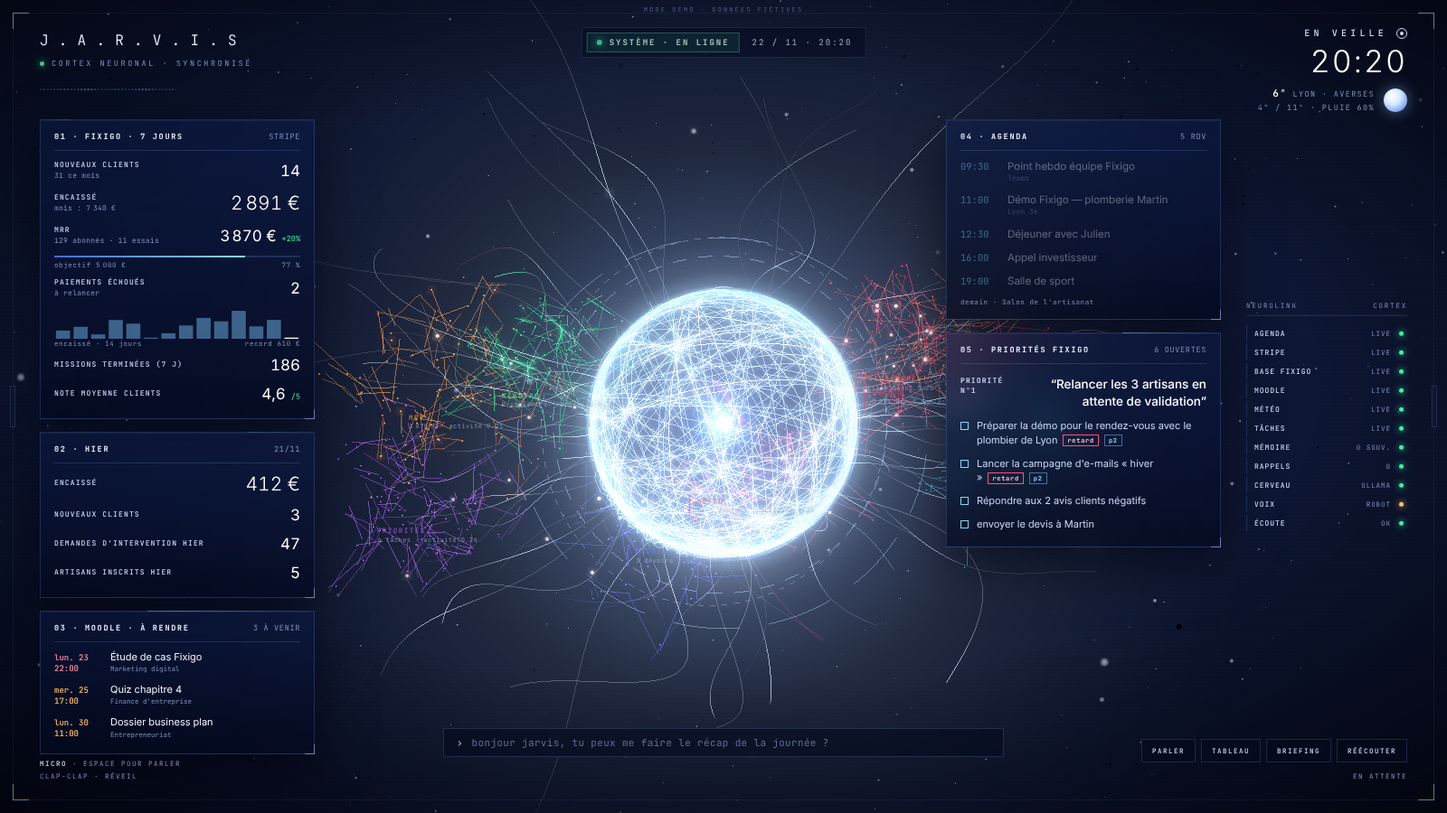
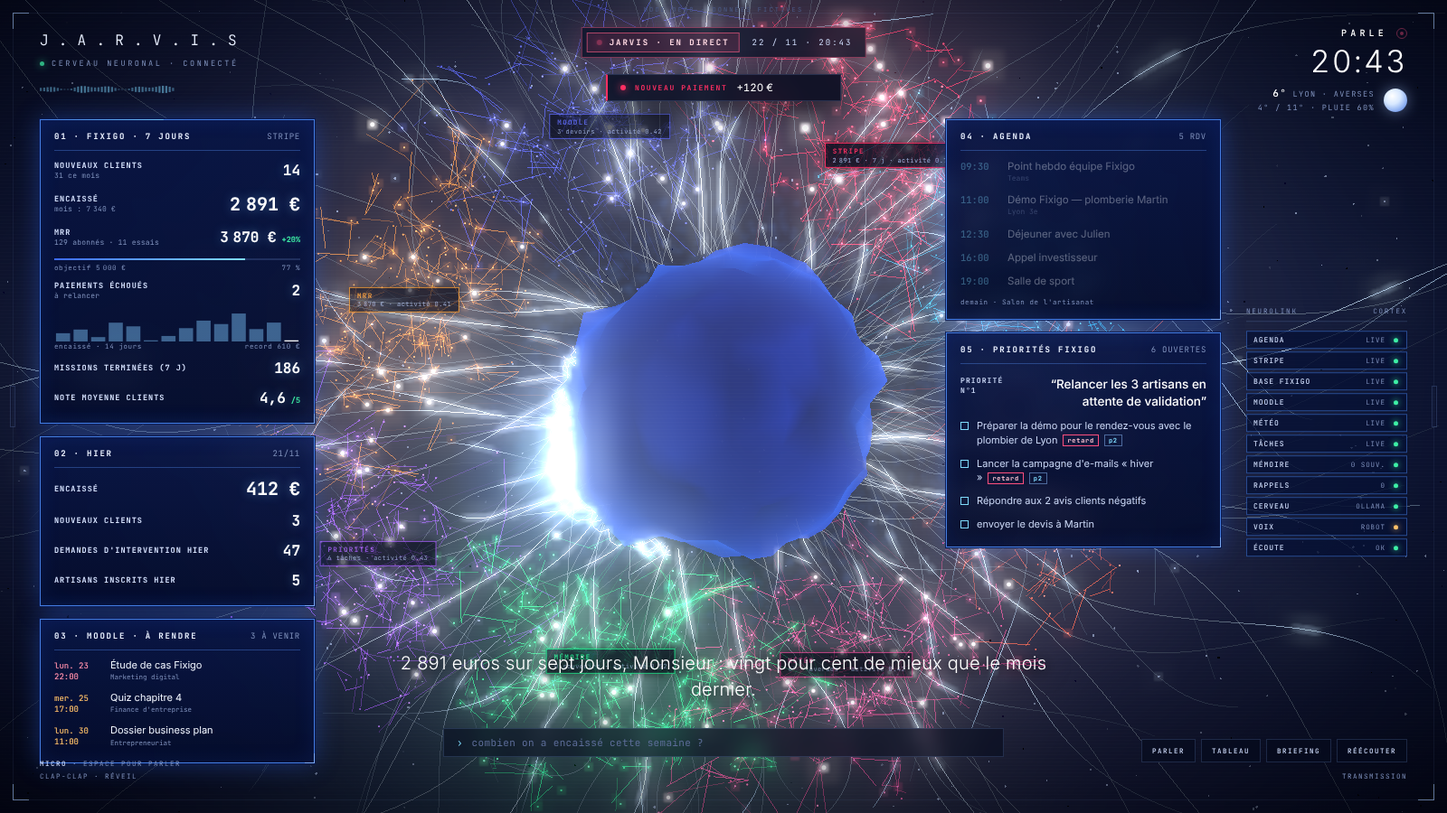
Remaster façon vidéo : noyau organique, éclairs, anneau de constellations, filaments ; voix et humour Jarvis ; contrôle du micro
Claude-Session: https://claude.ai/code/session_01DKoxfKHzRcH3b2eyDqtUH6

diff --git a/jarvis_thibault/static/index.html b/jarvis_thibault/static/index.html
@@ -17,7 +17,7 @@ html,body{height:100%;background:var(--fond);color:var(--blanc);font-family:var(
 #scene{position:fixed;left:0;top:0;z-index:0;display:block}
 .voile{position:fixed;inset:0;z-index:1;pointer-events:none;
   background:radial-gradient(ellipse 75% 70% at 50% 47%,transparent 55%,rgba(0,0,6,.78) 100%),
-  repeating-linear-gradient(0deg,rgba(255,255,255,.007) 0 1px,transparent 1px 4px)}
+  repeating-linear-gradient(0deg,rgba(255,255,255,.014) 0 1px,transparent 1px 4px)}
 .cadre{position:fixed;inset:14px;z-index:2;pointer-events:none;border:1px solid rgba(140,180,255,.07)}
 .cadre i{position:absolute;width:18px;height:18px;border-color:var(--trait-fort);border-style:solid}
 .cadre i:nth-child(1){top:-1px;left:-1px;border-width:1px 0 0 1px}.cadre i:nth-child(2){top:-1px;right:-1px;border-width:1px 1px 0 0}
@@ -49,9 +49,9 @@ html,body{height:100%;background:var(--fond);color:var(--blanc);font-family:var(
 .meteo b{color:#fff;font-weight:500;font-size:11px}
 
 /* ── colonne Neurolink ── */
-.modules{position:fixed;z-index:5;right:44px;top:50%;transform:translateY(-46%);width:178px;display:flex;flex-direction:column;gap:3px}
+.modules{position:fixed;z-index:5;right:44px;top:50%;transform:translateY(-40%);width:178px;display:flex;flex-direction:column;gap:3px}
 .modules .titre{display:flex;justify-content:space-between;font-size:7.5px;letter-spacing:.24em;color:var(--doux);text-transform:uppercase;margin-bottom:7px;padding-bottom:6px;border-bottom:1px solid var(--trait)}
-.mod{display:grid;grid-template-columns:1fr auto 7px;gap:9px;align-items:center;padding:4px 2px 4px 8px;font-size:8px;letter-spacing:.12em;text-transform:uppercase;border-left:1px solid var(--trait)}
+.mod{display:grid;grid-template-columns:1fr auto 7px;gap:9px;align-items:center;padding:4px 7px;font-size:8px;letter-spacing:.12em;text-transform:uppercase;border:1px solid rgba(80,145,255,.45);background:rgba(6,16,52,.75)}
 .mod b{font-weight:500;color:var(--label)}.mod span{color:var(--doux);font-size:7.5px}
 .mod i{width:5px;height:5px;border-radius:50%;background:var(--vert);box-shadow:0 0 7px var(--vert)}
 .mod.ko i{background:transparent;border:1px solid var(--tres-doux);box-shadow:none}.mod.ko span,.mod.ko b{color:var(--tres-doux)}
@@ -60,8 +60,8 @@ html,body{height:100%;background:var(--fond);color:var(--blanc);font-family:var(
 /* ── fenêtres holographiques ── */
 .colonne{position:fixed;z-index:5;top:132px;display:flex;flex-direction:column;gap:14px;width:min(304px,22vw);max-height:calc(100vh - 250px)}
 .colonne.g{left:44px}.colonne.d{right:250px}
-.pan{position:relative;background:var(--verre);border:1px solid var(--trait);padding:12px 15px 11px;backdrop-filter:blur(16px) saturate(130%);-webkit-backdrop-filter:blur(16px) saturate(130%);
-  box-shadow:0 18px 50px rgba(0,0,12,.55),inset 0 1px 0 rgba(180,210,255,.08);display:none;opacity:0;transform:translateY(10px);transition:opacity .35s,transform .5s cubic-bezier(.2,.9,.2,1)}
+.pan{position:relative;background:linear-gradient(180deg,rgba(9,22,70,.93),rgba(5,13,44,.93));border:1.5px solid rgba(80,145,255,.85);padding:12px 15px 11px;
+  backdrop-filter:blur(8px);-webkit-backdrop-filter:blur(8px);box-shadow:0 0 0 1px rgba(10,25,80,.9),0 0 26px rgba(50,110,255,.35),inset 0 0 22px rgba(40,90,255,.12);display:none;opacity:0;transform:translateY(10px);transition:opacity .35s,transform .5s cubic-bezier(.2,.9,.2,1)}
 .pan::before{content:"";position:absolute;left:-1px;right:-1px;top:-1px;height:1px;background:linear-gradient(90deg,transparent,var(--cyan),transparent);opacity:.75;animation:balaie 4s linear infinite}
 .pan::after{content:"";position:absolute;right:-1px;bottom:-1px;width:10px;height:10px;border-right:1px solid var(--trait-fort);border-bottom:1px solid var(--trait-fort)}
 @keyframes balaie{0%{clip-path:inset(0 100% 0 0)}50%{clip-path:inset(0 0 0 0)}100%{clip-path:inset(0 0 0 100%)}}
@@ -69,14 +69,14 @@ html,body{height:100%;background:var(--fond);color:var(--blanc);font-family:var(
 .pan.visible{opacity:1;transform:none;animation:holo .6s steps(1,end)}
 @keyframes holo{0%{clip-path:inset(0 0 100% 0);opacity:.3}15%{clip-path:inset(0 0 68% 0);opacity:1}25%{clip-path:inset(0 0 70% 0);opacity:.4}
   42%{clip-path:inset(0 0 30% 0);opacity:1}55%{opacity:.6}75%{clip-path:inset(0 0 0 0);opacity:1}88%{opacity:.75}100%{clip-path:inset(0 0 0 0);opacity:1}}
-.pan h2{display:flex;justify-content:space-between;align-items:baseline;gap:10px;font-size:8.5px;font-weight:700;letter-spacing:.2em;text-transform:uppercase;color:#eaf1ff;
-  padding-bottom:9px;margin-bottom:4px;border-bottom:1px solid var(--trait)}
+.pan h2{display:flex;justify-content:space-between;align-items:baseline;gap:10px;font-size:9px;font-weight:700;letter-spacing:.2em;text-transform:uppercase;color:#eaf1ff;
+  padding-bottom:9px;margin-bottom:4px;border-bottom:1px solid rgba(90,150,255,.35)}
 .pan h2 span:last-child{font-weight:400;color:var(--doux);letter-spacing:.08em}
 .kpi{display:flex;justify-content:space-between;align-items:center;gap:12px;padding:6px 0}
-.kpi .n{font-size:8px;font-weight:500;letter-spacing:.14em;text-transform:uppercase;color:var(--label);line-height:1.45}
+.kpi .n{font-size:8.5px;font-weight:700;letter-spacing:.12em;text-transform:uppercase;color:#d7e3ff;line-height:1.45}
 .kpi .n small{display:block;font-weight:400;font-size:8px;letter-spacing:.03em;color:var(--doux);text-transform:none}
-.kpi .v{font-family:var(--sans);font-size:17px;font-weight:400;color:#fff;white-space:nowrap}
-.kpi .v.fort{font-size:21px;font-weight:300}
+.kpi .v{font-family:var(--mono);font-size:16px;font-weight:700;color:#fff;white-space:nowrap;text-shadow:0 0 12px rgba(120,190,255,.45)}
+.kpi .v.fort{font-size:20px;font-weight:700}
 .kpi .v small{font-family:var(--mono);font-size:8.5px;color:var(--vert);margin-left:6px}
 .barre{height:2px;background:var(--trait);margin:5px 0 3px;position:relative;overflow:hidden}
 .barre i{position:absolute;inset:0 auto 0 0;background:linear-gradient(90deg,#3d6bff,var(--cyan));box-shadow:0 0 8px #3d8bff}
@@ -103,8 +103,8 @@ html,body{height:100%;background:var(--fond);color:var(--blanc);font-family:var(
 
 /* ── étiquettes du cerveau ── */
 .noeuds{position:fixed;inset:0;z-index:3;pointer-events:none}
-.noeud{position:absolute;transform:translate(-50%,0);padding:2px 0 2px 8px;border-left:1px solid;font:500 7.5px/1.4 var(--mono);letter-spacing:.2em;text-transform:uppercase;white-space:nowrap;
-  text-shadow:0 0 10px rgba(0,0,0,.9);transition:opacity .4s;border-color:currentColor!important;background:none!important;box-shadow:none!important}
+.noeud{position:absolute;transform:translate(-50%,-50%);padding:3px 8px;border:1px solid currentColor;background:rgba(2,5,22,.78);font:700 7.5px/1.4 var(--mono);letter-spacing:.18em;
+  text-transform:uppercase;white-space:nowrap;transition:opacity .4s;box-shadow:0 0 12px rgba(0,0,0,.6)}
 .noeud small{display:block;font-weight:400;font-size:7px;letter-spacing:.06em;color:#9eb0dc;text-transform:none}
 
 /* ── bas ── */
@@ -154,7 +154,7 @@ button.b:hover,button.b.on{border-color:var(--trait-fort);color:#fff;background:
 <div class="noeuds" id="noeuds"></div>
 <div id="boot"><pre id="bootTxt"></pre></div>
 
-<div class="marque"><div class="nom">J.A.R.V.I.S</div><div class="ss"><i></i>Cortex neuronal · synchronisé</div><canvas id="onde" aria-hidden="true"></canvas></div>
+<div class="marque"><div class="nom">J.A.R.V.I.S</div><div class="ss"><i></i>Cerveau neuronal · connecté</div><canvas id="onde" aria-hidden="true"></canvas></div>
 <div class="bandeau" id="bandeau"><span class="puce"><i></i><span id="puceTxt">Système · en ligne</span></span><span id="bandeauDate"></span></div>
 <div class="droite-tete">
   <div class="etat" id="etat"><span id="etatTxt">En veille</span><span class="rond"></span></div>
@@ -477,160 +477,141 @@ import {RenderPass} from "/static/vendor/postprocessing/RenderPass.js";
 import {UnrealBloomPass} from "/static/vendor/postprocessing/UnrealBloomPass.js";
 import {OutputPass} from "/static/vendor/postprocessing/OutputPass.js";
 
-/* ══ Cerveau neuronal 3D (Three.js + bloom) ══ */
+/* ══ Cerveau neuronal — remaster façon vidéo (Three.js + bloom) ══ */
 const cv=document.getElementById("scene");
 let renderer=null;
 try{renderer=new THREE.WebGLRenderer({canvas:cv,antialias:true,powerPreference:"high-performance"})}catch(e){console.warn("WebGL indisponible",e)}
 if(renderer){
-  const PAL={video:["#3fd8ff","#ff3d6e","#6f7dff","#ffa63d","#b66bff","#2dffa4","#ff5fae","#ff7d4a"],
-             bleu:["#3fd8ff","#4f7bff","#8fc8ff","#2f9bff","#6a8cff","#5fe0ff","#3d5cff","#a9d8ff"]};
-  const REG=["agenda","stripe","moodle","mrr","priorites","memoire","meteo","raison"],IDX=Object.fromEntries(REG.map((k,i)=>[k,i]));
-  IDX.langage=IDX.raison;
-  let graine=7;const rnd=()=>{graine|=0;graine=graine+0x6D2B79F5|0;let t=Math.imul(graine^graine>>>15,1|graine);t=t+Math.imul(t^t>>>7,61|t)^t;return((t^t>>>14)>>>0)/4294967296};
+  const PAL={video:["#28d2ff","#ff2f62","#5f6bff","#ffa02e","#a95cff","#22ff9a","#ff4fa3","#ff6a3a"],
+             bleu:["#28d2ff","#3f6bff","#8fc8ff","#2f9bff","#6a8cff","#5fe0ff","#3d5cff","#a9d8ff"]};
+  const REG=["agenda","stripe","moodle","mrr","priorites","memoire","meteo","raison"],IDX=Object.fromEntries(REG.map((k,i)=>[k,i]));IDX.langage=IDX.raison;
+  let graine=11;const rnd=()=>{graine|=0;graine=graine+0x6D2B79F5|0;let t=Math.imul(graine^graine>>>15,1|graine);t=t+Math.imul(t^t>>>7,61|t)^t;return((t^t>>>14)>>>0)/4294967296};
   const r2=(a,b)=>a+rnd()*(b-a),gauss=()=>{let u=0,v=0;while(!u)u=rnd();while(!v)v=rnd();return Math.sqrt(-2*Math.log(u))*Math.cos(6.2832*v)};
-  const mob=innerWidth<760;
-
-  renderer.setPixelRatio(Math.min(devicePixelRatio||1,1.75));renderer.setClearColor(0x010208,1);
-  const scene=new THREE.Scene(),camera=new THREE.PerspectiveCamera(36,1,.1,100);
-  const monde=new THREE.Group();scene.add(monde);
-  const R=1.18;
-  const U={uTemps:{value:0},uNiveau:{value:0},uActivite:{value:new Array(8).fill(.4)},uCouleurs:{value:REG.map(()=>new THREE.Color())},uFlash:{value:0}};
-  function couleurs(){const p=PAL[COULEURS]||PAL.video;p.forEach((h,i)=>U.uCouleurs.value[i].set(h))}couleurs();
+  const mob=innerWidth<760,R=1.2;
+  renderer.setPixelRatio(Math.min(devicePixelRatio||1,1.75));renderer.setClearColor(0x01020a,1);
+  const scene=new THREE.Scene(),camera=new THREE.PerspectiveCamera(34,1,.1,100),monde=new THREE.Group();scene.add(monde);
+  const U={uTemps:{value:0},uNiveau:{value:0},uFlash:{value:0},uActivite:{value:new Array(8).fill(.5)},uCouleurs:{value:REG.map(()=>new THREE.Color())}};
+  const couleurs=()=>(PAL[COULEURS]||PAL.video).forEach((h,i)=>U.uCouleurs.value[i].set(h));couleurs();
   const additif={transparent:true,depthWrite:false,blending:THREE.AdditiveBlending};
+  const NOISE=`vec3 m289(vec3 x){return x-floor(x*(1./289.))*289.;}vec4 m289(vec4 x){return x-floor(x*(1./289.))*289.;}vec4 perm(vec4 x){return m289(((x*34.)+1.)*x);}
+  float snoise(vec3 v){const vec2 C=vec2(1./6.,1./3.);const vec4 D=vec4(0.,.5,1.,2.);vec3 i=floor(v+dot(v,C.yyy));vec3 x0=v-i+dot(i,C.xxx);vec3 g=step(x0.yzx,x0.xyz);vec3 l=1.-g;
+  vec3 i1=min(g.xyz,l.zxy);vec3 i2=max(g.xyz,l.zxy);vec3 x1=x0-i1+C.xxx;vec3 x2=x0-i2+C.yyy;vec3 x3=x0-D.yyy;i=m289(i);
+  vec4 p=perm(perm(perm(i.z+vec4(0.,i1.z,i2.z,1.))+i.y+vec4(0.,i1.y,i2.y,1.))+i.x+vec4(0.,i1.x,i2.x,1.));float n_=.142857142857;vec3 ns=n_*D.wyz-D.xzx;
+  vec4 j=p-49.*floor(p*ns.z*ns.z);vec4 x_=floor(j*ns.z);vec4 y_=floor(j-7.*x_);vec4 x=x_*ns.x+ns.yyyy;vec4 y=y_*ns.x+ns.yyyy;vec4 h=1.-abs(x)-abs(y);
+  vec4 b0=vec4(x.xy,y.xy);vec4 b1=vec4(x.zw,y.zw);vec4 s0=floor(b0)*2.+1.;vec4 s1=floor(b1)*2.+1.;vec4 sh=-step(h,vec4(0.));
+  vec4 a0=b0.xzyw+s0.xzyw*sh.xxyy;vec4 a1=b1.xzyw+s1.xzyw*sh.zzww;vec3 p0=vec3(a0.xy,h.x);vec3 p1=vec3(a0.zw,h.y);vec3 p2=vec3(a1.xy,h.z);vec3 p3=vec3(a1.zw,h.w);
+  vec4 norm=1.79284291400159-.85373472095314*vec4(dot(p0,p0),dot(p1,p1),dot(p2,p2),dot(p3,p3));p0*=norm.x;p1*=norm.y;p2*=norm.z;p3*=norm.w;
+  vec4 m=max(.6-vec4(dot(x0,x0),dot(x1,x1),dot(x2,x2),dot(x3,x3)),0.);m=m*m;return 42.*dot(m*m,vec4(dot(p0,x0),dot(p1,x1),dot(p2,x2),dot(p3,x3)));}`;
 
-  /* ── fond d'étoiles ── */
-  {const n=mob?600:1400,pos=new Float32Array(n*3),gr=new Float32Array(n);
-    for(let i=0;i<n;i++){const d=r2(5,14),u=r2(-1,1),t=r2(0,6.2832),q=Math.sqrt(1-u*u);pos.set([Math.cos(t)*q*d,u*d*.7,Math.sin(t)*q*d],i*3);gr[i]=rnd()}
-    const g=new THREE.BufferGeometry();g.setAttribute("position",new THREE.BufferAttribute(pos,3));g.setAttribute("aGraine",new THREE.BufferAttribute(gr,1));
-    scene.add(new THREE.Points(g,new THREE.ShaderMaterial({...additif,uniforms:U,
-      vertexShader:`attribute float aGraine;uniform float uTemps;varying float vA;void main(){vec4 mv=modelViewMatrix*vec4(position,1.);gl_Position=projectionMatrix*mv;
-        vA=.25+.35*sin(uTemps*.8+aGraine*40.);gl_PointSize=(1.+aGraine*1.6)*(14./-mv.z);}`,
-      fragmentShader:`varying float vA;void main(){float d=length(gl_PointCoord-.5);if(d>.5)discard;gl_FragColor=vec4(vec3(.6,.72,1.)*vA*(1.-d*2.),1.);}`})))}
+  /* étoiles */
+  {const n=mob?500:1200,pos=new Float32Array(n*3),gr=new Float32Array(n);
+    for(let i=0;i<n;i++){pos.set([r2(-14,14),r2(-8,8),r2(-12,-3)],i*3);gr[i]=rnd()}
+    const g=new THREE.BufferGeometry();g.setAttribute("position",new THREE.BufferAttribute(pos,3));g.setAttribute("aG",new THREE.BufferAttribute(gr,1));
+    scene.add(new THREE.Points(g,new THREE.ShaderMaterial({...additif,uniforms:U,vertexShader:`attribute float aG;uniform float uTemps;varying float vA;
+      void main(){vec4 mv=modelViewMatrix*vec4(position,1.);gl_Position=projectionMatrix*mv;vA=.2+.3*sin(uTemps*.7+aG*40.);gl_PointSize=1.+aG*1.8;}`,
+      fragmentShader:`varying float vA;void main(){float d=length(gl_PointCoord-.5);if(d>.5)discard;gl_FragColor=vec4(vec3(.55,.68,1.)*vA,1.);}`})))}
 
-  /* ── noyau : sphère de fils ── */
-  const noyau=new THREE.Group();monde.add(noyau);
-  {const fond=new THREE.Mesh(new THREE.SphereGeometry(R*.985,64,48),new THREE.MeshBasicMaterial({color:0x040c33,transparent:true,opacity:.82,depthWrite:false}));
-    fond.renderOrder=-1;noyau.add(fond);
-    const nf=mob?120:220,seg=90,pos=[],att=[];
-    for(let f=0;f<nf;f++){const u=r2(-1,1),t=r2(0,6.2832),q=Math.sqrt(1-u*u),n=new THREE.Vector3(Math.cos(t)*q,u,Math.sin(t)*q);
-      const a=new THREE.Vector3(.3,1,.2).cross(n).normalize(),b=n.clone().cross(a),ext=r2(.45,1)*6.2832,d0=r2(0,6.2832),rr=r2(.97,1.02),gr=rnd();
-      for(let i=0;i<seg;i++)for(const k of[i,i+1]){const th=d0+ext*k/seg,p=a.clone().multiplyScalar(Math.cos(th)).add(b.clone().multiplyScalar(Math.sin(th))).multiplyScalar(R*rr);
-        pos.push(p.x,p.y,p.z);att.push(gr,k/seg)}}
-    const g=new THREE.BufferGeometry();g.setAttribute("position",new THREE.Float32BufferAttribute(pos,3));
-    const ga=new Float32Array(att.length/2*2);for(let i=0;i<att.length;i++)ga[i]=att[i];g.setAttribute("aInfo",new THREE.BufferAttribute(ga,2));
-    noyau.add(new THREE.LineSegments(g,new THREE.ShaderMaterial({...additif,uniforms:U,
-      vertexShader:`attribute vec2 aInfo;uniform float uTemps,uNiveau;varying float vFace,vPulse;
-        void main(){vec3 p=position;float w=1.+.018*sin(aInfo.x*30.+uTemps*1.4+dot(p,vec3(3.1,2.3,1.7)))+uNiveau*.07*sin(uTemps*11.+aInfo.x*60.+aInfo.y*20.);p*=w;
-          vec3 n=normalize(normalMatrix*normalize(position));vFace=smoothstep(-.35,.7,n.z);
-          float c=fract(uTemps*(.08+aInfo.x*.12)+aInfo.x);vPulse=exp(-pow((aInfo.y-c)*14.,2.));
-          gl_Position=projectionMatrix*modelViewMatrix*vec4(p,1.);}`,
-      fragmentShader:`uniform float uNiveau;varying float vFace,vPulse;void main(){vec3 bleu=vec3(.18,.38,1.),clair=vec3(.62,.86,1.);
-        vec3 c=mix(bleu*.25,clair,vFace)*(.08+.34*vFace)+vec3(.9,.97,1.)*vPulse*(.45+uNiveau*.5)*vFace;gl_FragColor=vec4(c*(1.+uNiveau*.25),1.);}`})));
-    // liseré net (fresnel)
-    noyau.add(new THREE.Mesh(new THREE.SphereGeometry(R*1.012,64,48),new THREE.ShaderMaterial({...additif,uniforms:U,
-      vertexShader:`varying vec3 vN,vV;void main(){vN=normalize(normalMatrix*normal);vec4 mv=modelViewMatrix*vec4(position,1.);vV=normalize(-mv.xyz);gl_Position=projectionMatrix*mv;}`,
-      fragmentShader:`uniform float uNiveau;varying vec3 vN,vV;void main(){float f=pow(1.-abs(dot(vN,vV)),3.2);gl_FragColor=vec4(vec3(.35,.7,1.)*f*(.75+uNiveau*.5),1.);}`})));}
-  // cœur lumineux (sprites)
-  function texRadiale(stops){const c=document.createElement("canvas");c.width=c.height=256;const g=c.getContext("2d"),gr=g.createRadialGradient(128,128,0,128,128,128);
-    stops.forEach(([o,col])=>gr.addColorStop(o,col));g.fillStyle=gr;g.fillRect(0,0,256,256);const t=new THREE.CanvasTexture(c);t.colorSpace=THREE.SRGBColorSpace;return t}
-  const coeur=new THREE.Sprite(new THREE.SpriteMaterial({map:texRadiale([[0,"rgba(255,255,255,1)"],[.12,"rgba(215,245,255,.95)"],[.35,"rgba(90,190,255,.45)"],[1,"rgba(30,90,255,0)"]]),...additif}));
-  const halo=new THREE.Sprite(new THREE.SpriteMaterial({map:texRadiale([[0,"rgba(60,120,255,.32)"],[.5,"rgba(40,90,255,.08)"],[1,"rgba(20,50,200,0)"]]),...additif}));
-  halo.scale.setScalar(R*4.2);monde.add(halo);monde.add(coeur);
+  /* noyau : masse bleue organique, bords mouvants (comme la vidéo) */
+  const noyau=new THREE.Mesh(new THREE.IcosahedronGeometry(R,6),new THREE.ShaderMaterial({uniforms:U,transparent:true,
+    vertexShader:NOISE+`uniform float uTemps,uNiveau;varying vec3 vN,vV;varying float vB;
+      void main(){vec3 d=normalize(position);float n=snoise(d*1.6+vec3(0.,uTemps*.12,uTemps*.08))*.16+snoise(d*4.2-uTemps*.2)*.06+snoise(d*9.-uTemps*.4)*.025;
+        n+=uNiveau*.06*snoise(d*6.+uTemps*3.);vB=n;vec3 p=position*(1.+n);vec4 mv=modelViewMatrix*vec4(p,1.);vN=normalize(normalMatrix*d);vV=normalize(-mv.xyz);gl_Position=projectionMatrix*mv;}`,
+    fragmentShader:`uniform float uNiveau;varying vec3 vN,vV;varying float vB;
+      void main(){float f=pow(1.-abs(dot(vN,vV)),2.4);vec3 c=mix(vec3(.002,.008,.11),vec3(.008,.035,.42),clamp(.5+vB*2.6,0.,1.));c+=vec3(.03,.16,.9)*f*(.45+uNiveau*.4);
+        gl_FragColor=vec4(c,.97);}`}));
+  monde.add(noyau);
+  /* brume bleue autour du noyau (particules) */
+  {const n=mob?1500:3500,pos=new Float32Array(n*3),gr=new Float32Array(n);
+    for(let i=0;i<n;i++){const u=r2(-1,1),t=r2(0,6.2832),q=Math.sqrt(1-u*u),d=R*r2(.95,1.45);pos.set([Math.cos(t)*q*d,u*d,Math.sin(t)*q*d],i*3);gr[i]=rnd()}
+    const g=new THREE.BufferGeometry();g.setAttribute("position",new THREE.BufferAttribute(pos,3));g.setAttribute("aG",new THREE.BufferAttribute(gr,1));
+    monde.add(new THREE.Points(g,new THREE.ShaderMaterial({...additif,uniforms:U,vertexShader:`attribute float aG;uniform float uTemps,uNiveau;varying float vA;
+      void main(){vec3 p=position*(1.+.04*sin(uTemps*.6+aG*30.)+uNiveau*.08);vec4 mv=modelViewMatrix*vec4(p,1.);gl_Position=projectionMatrix*mv;
+        vA=.012+.016*aG;gl_PointSize=(6.+aG*12.)*(10./-mv.z);}`,
+      fragmentShader:`varying float vA;void main(){float d=length(gl_PointCoord-.5);if(d>.5)discard;gl_FragColor=vec4(vec3(.15,.35,1.)*vA*(1.-d*2.),1.);}`})))}
 
-  /* ── anneaux segmentés ── */
-  const anneaux=[];
-  [[R*1.28,40,.035,.32,[1.25,0,.2]],[R*1.4,90,.018,.2,[1.45,.4,0]],[R*1.55,14,.07,.26,[1.1,-.5,.3]]].forEach(([r,n,trou,al,rot])=>{const p=[];
-    for(let i=0;i<n;i++){const a0=i/n*6.2832+trou,a1=(i+1)/n*6.2832-trou,s=10;for(let k=0;k<s;k++){const x=a0+(a1-a0)*k/s,y=a0+(a1-a0)*(k+1)/s;p.push(Math.cos(x)*r,0,Math.sin(x)*r,Math.cos(y)*r,0,Math.sin(y)*r)}}
-    const g=new THREE.BufferGeometry();g.setAttribute("position",new THREE.Float32BufferAttribute(p,3));
-    const m=new THREE.LineSegments(g,new THREE.LineBasicMaterial({color:new THREE.Color(.45,.7,1).multiplyScalar(al),...additif}));m.rotation.set(...rot);monde.add(m);anneaux.push(m)});
-
-  /* ── constellations (8 régions) ── */
-  const centres=[],CR=2.75;
-  {const npr=mob?44:80,pts=[],att=[],lpos=[],latt=[];
-    REG.forEach((k,ri)=>{const a=ri/8*6.2832+.35,el=(ri%2?.55:-.45)+r2(-.15,.15),c=new THREE.Vector3(Math.cos(a)*CR,el*1.1+Math.sin(a)*.25,Math.sin(a)*CR*.62);centres.push(c);
-      const loc=[];for(let i=0;i<npr;i++){const p=new THREE.Vector3(c.x+gauss()*.42,c.y+gauss()*.34,c.z+gauss()*.42);loc.push(p);pts.push(p.x,p.y,p.z);att.push(ri,rnd(),rnd()<.1?1:0)}
+  /* anneau de constellations néon (8 régions, très denses) */
+  const centres=[];
+  {const npr=mob?110:210,pts=[],att=[],lpos=[],latt=[];
+    REG.forEach((k,ri)=>{const a=ri/8*6.2832+.4+r2(-.12,.12),rr=r2(2.35,2.75),c=new THREE.Vector3(Math.cos(a)*rr*1.12,Math.sin(a)*rr*.86,r2(-.5,.5));centres.push(c);
+      const ta=new THREE.Vector3(-Math.sin(a),Math.cos(a),0),ra=new THREE.Vector3(Math.cos(a),Math.sin(a),0),loc=[];
+      for(let i=0;i<npr;i++){const p=c.clone().addScaledVector(ta,gauss()*.62).addScaledVector(ra,gauss()*.42).add(new THREE.Vector3(0,0,gauss()*.35));
+        loc.push(p);pts.push(p.x,p.y,p.z);att.push(ri,rnd(),rnd()<.08?1:0)}
       loc.forEach((p,i)=>{loc.map((q,j)=>[p.distanceToSquared(q),j]).filter(x=>x[1]!==i).sort((x,y)=>x[0]-y[0]).slice(0,3).forEach(([,j])=>{if(j<i)return;const q=loc[j];
-        lpos.push(p.x,p.y,p.z,q.x,q.y,q.z);const s=rnd();latt.push(ri,s,ri,s)})})});
+        lpos.push(p.x,p.y,p.z,q.x,q.y,q.z);const s=rnd();latt.push(ri,s,0,ri,s,0)})});
+      // liens vers le noyau et vers la région voisine
+      for(let l=0;l<10;l++){const p=loc[Math.floor(rnd()*npr)],q=new THREE.Vector3().copy(p).normalize().multiplyScalar(R*r2(1,1.15));lpos.push(p.x,p.y,p.z,q.x,q.y,q.z);const s=rnd();latt.push(ri,s,1,ri,s,1)}});
     const vs=`attribute vec3 aInfo;uniform float uTemps,uNiveau;uniform float uActivite[8];uniform vec3 uCouleurs[8];varying vec3 vC;varying float vB;
-      vec3 deriver(vec3 p,float s){return p+.05*vec3(sin(uTemps*.7+s*40.),cos(uTemps*.55+s*31.),sin(uTemps*.45+s*23.));}`;
+      vec3 deriver(vec3 p,float s){return p+.045*vec3(sin(uTemps*.8+s*40.),cos(uTemps*.6+s*31.),sin(uTemps*.5+s*23.));}`;
     const g=new THREE.BufferGeometry();g.setAttribute("position",new THREE.Float32BufferAttribute(pts,3));g.setAttribute("aInfo",new THREE.Float32BufferAttribute(att,3));
     monde.add(new THREE.Points(g,new THREE.ShaderMaterial({...additif,uniforms:U,
-      vertexShader:vs+`void main(){int r=int(aInfo.x+.5);float act=uActivite[r];vec3 p=deriver(position,aInfo.y);vec4 mv=modelViewMatrix*vec4(p,1.);gl_Position=projectionMatrix*mv;
-        float sc=.55+.45*sin(uTemps*2.3+aInfo.y*60.);vC=mix(uCouleurs[r],vec3(1.),aInfo.z*.7);vB=(.45+.55*sc)*(.55+act*.8);gl_PointSize=(aInfo.z>.5?5.5:2.6)*(1.+act*.4)*(9./-mv.z);}`,
-      fragmentShader:`varying vec3 vC;varying float vB;void main(){float d=length(gl_PointCoord-.5);if(d>.5)discard;gl_FragColor=vec4(vC*vB*smoothstep(.5,.0,d)*1.9,1.);}`})));
-    const lg=new THREE.BufferGeometry();lg.setAttribute("position",new THREE.Float32BufferAttribute(lpos,3));
-    const la=new Float32Array(latt.length/2*3);for(let i=0;i<latt.length/2;i++){la[i*3]=latt[i*2];la[i*3+1]=latt[i*2+1];la[i*3+2]=0}lg.setAttribute("aInfo",new THREE.BufferAttribute(la,3));
+      vertexShader:vs+`void main(){int r=int(aInfo.x+.5);float act=uActivite[r];vec4 mv=modelViewMatrix*vec4(deriver(position,aInfo.y),1.);gl_Position=projectionMatrix*mv;
+        float sc=.5+.5*sin(uTemps*2.6+aInfo.y*70.);vC=mix(uCouleurs[r],vec3(1.),aInfo.z*.8+sc*.15);vB=(.55+.45*sc)*(.6+act*.9);gl_PointSize=(aInfo.z>.5?6.:2.8)*(1.+act*.35)*(9./-mv.z);}`,
+      fragmentShader:`varying vec3 vC;varying float vB;void main(){float d=length(gl_PointCoord-.5);if(d>.5)discard;gl_FragColor=vec4(vC*vB*smoothstep(.5,0.,d)*2.,1.);}`})));
+    const lg=new THREE.BufferGeometry();lg.setAttribute("position",new THREE.Float32BufferAttribute(lpos,3));lg.setAttribute("aInfo",new THREE.Float32BufferAttribute(latt,3));
     monde.add(new THREE.LineSegments(lg,new THREE.ShaderMaterial({...additif,uniforms:U,
-      vertexShader:vs+`void main(){int r=int(aInfo.x+.5);vec3 p=deriver(position,aInfo.y);gl_Position=projectionMatrix*modelViewMatrix*vec4(p,1.);vC=uCouleurs[r];
-        vB=(.22+.5*uActivite[r])*(.7+.3*sin(uTemps*1.7+aInfo.y*30.));}`,
+      vertexShader:vs+`void main(){int r=int(aInfo.x+.5);gl_Position=projectionMatrix*modelViewMatrix*vec4(deriver(position,aInfo.y),1.);vC=uCouleurs[r];
+        vB=(aInfo.z>.5?.12:.34+.5*uActivite[r])*(.65+.35*sin(uTemps*1.9+aInfo.y*30.));}`,
       fragmentShader:`varying vec3 vC;varying float vB;void main(){gl_FragColor=vec4(vC*vB,1.);}`})))}
 
-  /* ── filaments libres (ondulent, poussent et s'éteignent, impulsions lumineuses) ── */
-  {const nfil=mob?70:140,seg=34,pos=[],a1=[],a2=[],a3=[];
-    for(let f=0;f<nfil;f++){let d;const vers=rnd()<.55?Math.floor(rnd()*8):-1;
-      if(vers>=0)d=centres[vers].clone().normalize().add(new THREE.Vector3(r2(-.35,.35),r2(-.35,.35),r2(-.35,.35))).normalize();
-      else{const u=r2(-1,1),t=r2(0,6.2832),q=Math.sqrt(1-u*u);d=new THREE.Vector3(Math.cos(t)*q,u*.8,Math.sin(t)*q).normalize()}
-      const p1=new THREE.Vector3(.2,1,.4).cross(d).normalize(),len=vers>=0?r2(1.3,1.9):r2(1.6,3.6),gr=rnd(),reg=vers>=0?vers:-1;
-      for(let i=0;i<seg;i++)for(const k of[i,i+1]){pos.push(d.x,d.y,d.z);a1.push(p1.x,p1.y,p1.z);a2.push(k/seg,gr,len,reg)}}
-    const g=new THREE.BufferGeometry();g.setAttribute("position",new THREE.Float32BufferAttribute(pos,3));g.setAttribute("aPerp",new THREE.Float32BufferAttribute(a1,3));
-    g.setAttribute("aInfo",new THREE.Float32BufferAttribute(a2,4));
+  /* filaments blancs qui jaillissent jusqu'aux bords, ondulent, naissent et meurent */
+  {const nfil=mob?110:240,seg=40,pos=[],a1=[],a2=[];
+    for(let f=0;f<nfil;f++){const a=r2(0,6.2832),d=new THREE.Vector3(Math.cos(a)*1.15,Math.sin(a)*.9,r2(-.35,.35)).normalize(),p1=new THREE.Vector3(-d.y,d.x,0).normalize();
+      const len=rnd()<.35?r2(4,7):r2(1.6,3.8),gr=rnd();for(let i=0;i<seg;i++)for(const k of[i,i+1]){pos.push(d.x,d.y,d.z);a1.push(p1.x,p1.y,p1.z);a2.push(k/seg,gr,len)}}
+    const g=new THREE.BufferGeometry();g.setAttribute("position",new THREE.Float32BufferAttribute(pos,3));g.setAttribute("aPerp",new THREE.Float32BufferAttribute(a1,3));g.setAttribute("aInfo",new THREE.Float32BufferAttribute(a2,3));
     monde.add(new THREE.LineSegments(g,new THREE.ShaderMaterial({...additif,uniforms:U,
-      vertexShader:`attribute vec3 aPerp;attribute vec4 aInfo;uniform float uTemps,uNiveau,uFlash;uniform vec3 uCouleurs[8];uniform float uActivite[8];varying vec3 vC;varying float vB;
+      vertexShader:`attribute vec3 aPerp;attribute vec3 aInfo;uniform float uTemps,uNiveau,uFlash;varying float vB;varying float vT;
         void main(){float t=aInfo.x,s=aInfo.y,L=aInfo.z;vec3 d=normalize(position),p1=aPerp,p2=normalize(cross(d,p1));
-          float vie=fract(uTemps*(.05+s*.06)+s*7.),pousse=smoothstep(0.,.35,vie),fond=1.-smoothstep(.75,1.,vie);float tm=t*pousse;
-          float amp=(.25+s*.45)*(1.+uNiveau*1.6),fq=1.2+s*1.8;
-          vec3 p=d*(${R.toFixed(3)}+tm*L)+p1*(sin(tm*3.14)*(s-.5)*1.1+sin(uTemps*fq+tm*5.+s*20.)*amp*tm)+p2*(cos(uTemps*fq*.7+tm*4.+s*13.)*amp*.6*tm);
+          float vie=fract(uTemps*(.045+s*.05)+s*9.),pousse=smoothstep(0.,.3,vie),fond=1.-smoothstep(.72,1.,vie),tm=t*pousse;
+          float amp=(.18+s*.5)*(1.+uNiveau*1.4),fq=1.+s*2.2;
+          vec3 p=d*(${R.toFixed(2)}*1.02+tm*L)+p1*(sin(tm*3.1)*(s-.5)*1.6+sin(uTemps*fq+tm*4.5+s*20.)*amp*tm)+p2*(cos(uTemps*fq*.8+tm*3.5+s*13.)*amp*.5*tm);
           gl_Position=projectionMatrix*modelViewMatrix*vec4(p,1.);
-          float c=fract(uTemps*(.25+s*.4)*(1.+uNiveau*2.)+s*5.),pulse=exp(-pow((tm-c)*10.,2.));int r=int(aInfo.w+.5);
-          vec3 base=aInfo.w<0.?vec3(.62,.78,1.):mix(vec3(.62,.8,1.),uCouleurs[r],smoothstep(.4,1.,t));
-          float act=aInfo.w<0.?.4:uActivite[r];vC=base;vB=((.07+.2*s)*(1.-t*.55)+pulse*(.55+uNiveau*.5)+uFlash*.25*(1.-t))*fond*(.7+act*.5)*step(t,pousse+.001);}`,
-      fragmentShader:`varying vec3 vC;varying float vB;void main(){gl_FragColor=vec4(vC*vB,1.);}`})))}
+          float c=fract(uTemps*(.22+s*.35)*(1.+uNiveau*1.5)+s*5.),pulse=exp(-pow((tm-c)*11.,2.));vT=t;
+          vB=((.05+.2*s)*(1.-t*.7)+pulse*(.6+uNiveau*.4)+uFlash*.2*(1.-t))*fond*step(t,pousse+.001);}`,
+      fragmentShader:`varying float vB;varying float vT;void main(){gl_FragColor=vec4(mix(vec3(.85,.95,1.),vec3(.45,.7,1.),vT)*vB,1.);}`})))}
 
-  /* ── arc électrique sur le bord du noyau ── */
-  const NARC=4,PTS=26,arcGeo=new THREE.BufferGeometry(),arcPos=new Float32Array(NARC*PTS*2*3);arcGeo.setAttribute("position",new THREE.BufferAttribute(arcPos,3));
-  const arcMat=new THREE.LineBasicMaterial({color:new THREE.Color(.85,.95,1),...additif});arcMat.toneMapped=false;const arc=new THREE.LineSegments(arcGeo,arcMat);scene.add(arc);
-  let flash=0;
+  /* éclairs sur le bord du noyau */
+  const NARC=7,PTS=30,arcPos=new Float32Array(NARC*PTS*2*3),arcGeo=new THREE.BufferGeometry();arcGeo.setAttribute("position",new THREE.BufferAttribute(arcPos,3));
+  const arcMat=new THREE.LineBasicMaterial({color:0xffffff,...additif});scene.add(new THREE.LineSegments(arcGeo,arcMat));
+  const eclatSprite=(()=>{const c=document.createElement("canvas");c.width=c.height=256;const g=c.getContext("2d"),gr=g.createRadialGradient(128,128,0,128,128,128);
+    gr.addColorStop(0,"rgba(255,255,255,1)");gr.addColorStop(.2,"rgba(190,235,255,.7)");gr.addColorStop(.55,"rgba(70,160,255,.18)");gr.addColorStop(1,"rgba(30,90,255,0)");g.fillStyle=gr;g.fillRect(0,0,256,256);
+    const t=new THREE.CanvasTexture(c);t.colorSpace=THREE.SRGBColorSpace;return new THREE.Sprite(new THREE.SpriteMaterial({map:t,...additif}))})();scene.add(eclatSprite);
+  let flash=0,tirage=0;const ondes=[];
 
-  /* ── onde de choc (événements) ── */
-  const ondes=[];
-  function onde(ri){const m=new THREE.Mesh(new THREE.RingGeometry(R*1.02,R*1.06,96),new THREE.MeshBasicMaterial({color:new THREE.Color(PAL[COULEURS][ri]||"#7fd8ff"),...additif,side:THREE.DoubleSide}));
-    scene.add(m);ondes.push({m,t:performance.now()/1000})}
-
-  /* ── rendu + bloom ── */
+  /* rendu */
   const composer=new EffectComposer(renderer);composer.addPass(new RenderPass(scene,camera));
-  const bloom=new UnrealBloomPass(new THREE.Vector2(256,256),.6,.42,.32);composer.addPass(bloom);composer.addPass(new OutputPass());
-  function taille(){const w=innerWidth,h=mob?Math.max(380,innerHeight*.62):innerHeight;renderer.setSize(w,h,false);composer.setSize(w,h);
-    cv.style.width=w+"px";cv.style.height=h+"px";camera.aspect=w/h;camera.position.set(0,.35,(w/h<1.2?12.5/Math.max(.62,w/h)*.9:11.2));camera.lookAt(0,.15,0);camera.updateProjectionMatrix()}
+  const bloom=new UnrealBloomPass(new THREE.Vector2(256,256),.85,.45,.3);composer.addPass(bloom);composer.addPass(new OutputPass());
+  function taille(){const w=innerWidth,h=mob?Math.max(400,innerHeight*.62):innerHeight;renderer.setSize(w,h,false);composer.setSize(w,h);cv.style.width=w+"px";cv.style.height=h+"px";
+    camera.aspect=w/h;camera.position.set(0,0,w/h<1.2?14/Math.max(.6,w/h)*.85:10.6);camera.lookAt(0,0,0);camera.updateProjectionMatrix()}
   addEventListener("resize",taille);taille();
-  let sx=0,sy=0;addEventListener("pointermove",e=>{sx=(e.clientX/innerWidth-.5);sy=(e.clientY/innerHeight-.5)});
-
-  const act=new Array(8).fill(.4),fl=new Array(8).fill(0),tmp=new THREE.Vector3(),droite=new THREE.Vector3(),haut=new THREE.Vector3();let dernier=performance.now()/1000,derniereCouleur=COULEURS;
+  let sx=0,sy=0;addEventListener("pointermove",e=>{sx=e.clientX/innerWidth-.5;sy=e.clientY/innerHeight-.5});
+  const act=new Array(8).fill(.5),fl=new Array(8).fill(0),tmp=new THREE.Vector3(),droite=new THREE.Vector3(),haut=new THREE.Vector3();let dernier=0,derniereCouleur=COULEURS;
   const hexA=(h,a)=>{const n=parseInt(h.slice(1),16);return `rgba(${n>>16&255},${n>>8&255},${n&255},${a})`};
+  function eclairs(t,L){camera.getWorldDirection(tmp);droite.crossVectors(tmp,camera.up).normalize();haut.crossVectors(droite,tmp).normalize();
+    const ra=Math.PI*.95+Math.sin(t*.25)*.9+Math.sin(t*.06)*.6,span=.55+L*.5+flash*.4;let o=0;
+    for(let a=0;a<NARC;a++){let prev=null;const a0=ra-span*r2(.6,1),a1=ra+span*r2(.6,1),off=a>=4?r2(.05,.35)*R:0;
+      for(let k=0;k<PTS;k++){const an=a0+(a1-a0)*k/(PTS-1),rr=R*(1.04+(rnd()-.5)*.09*(1+L+flash))+off*Math.sin(k/(PTS-1)*3.1416);
+        const x=(Math.cos(an)*droite.x+Math.sin(an)*haut.x)*rr,y=(Math.cos(an)*droite.y+Math.sin(an)*haut.y)*rr,z=(Math.cos(an)*droite.z+Math.sin(an)*haut.z)*rr;
+        if(prev){arcPos.set(prev,o);arcPos.set([x,y,z],o+3);o+=6}prev=[x,y,z]}}
+    arcGeo.attributes.position.needsUpdate=true;const f=.5+L*.5+flash*.7;arcMat.color.setRGB(.7*f,.9*f,f);
+    eclatSprite.position.set((Math.cos(ra)*droite.x+Math.sin(ra)*haut.x)*R*1.05,(Math.cos(ra)*droite.y+Math.sin(ra)*haut.y)*R*1.05,(Math.cos(ra)*droite.z+Math.sin(ra)*haut.z)*R*1.05);
+    eclatSprite.scale.setScalar(R*(.9+L*1.1+flash*1.2));eclatSprite.material.opacity=.4+L*.25+flash*.3}
   Object.assign(CERVEAU,{
-    eclat(region){const i=IDX[region]??IDX.raison;fl[i]=1.4;flash=Math.max(flash,.9);onde(i)},
+    eclat(region){const i=IDX[region]??IDX.raison;fl[i]=1.5;flash=Math.max(flash,1);
+      const m=new THREE.Mesh(new THREE.RingGeometry(R*1.02,R*1.07,96),new THREE.MeshBasicMaterial({color:new THREE.Color((PAL[COULEURS]||PAL.video)[i]),...additif,side:THREE.DoubleSide}));scene.add(m);ondes.push({m,t:dernier})},
     couleur(k){return(PAL[COULEURS]||PAL.video)[IDX[k]??IDX.raison]||"#7fd8ff"},
-    ancre(k){const i=IDX[k];if(i==null)return null;tmp.copy(centres[i]).applyMatrix4(monde.matrixWorld).project(camera);const r=cv.getBoundingClientRect();
-      const col=(PAL[COULEURS]||PAL.video)[i];return{x:r.left+(tmp.x+1)/2*r.width,y:r.top+(1-tmp.y)/2*r.height+30,clair:col,bord:hexA(col,.55),actif:act[i]}},
+    ancre(k){const i=IDX[k];if(i==null)return null;tmp.copy(centres[i]).applyMatrix4(monde.matrixWorld).project(camera);const r=cv.getBoundingClientRect(),col=(PAL[COULEURS]||PAL.video)[i];
+      return{x:r.left+(tmp.x+1)/2*r.width,y:r.top+(1-tmp.y)/2*r.height,clair:col,bord:hexA(col,.7),actif:act[i]}},
     dessiner(ms){const t=ms/1000,dt=Math.min(.05,t-dernier);dernier=t;if(derniereCouleur!==COULEURS){couleurs();derniereCouleur=COULEURS}
       const L=ORBE.niveau,mode=ORBE.mode;U.uTemps.value=t;U.uNiveau.value=L;
-      for(let i=0;i<8;i++){let c=.38+.14*Math.sin(t*.9+i*1.7);if(mode==="reflexion")c=.3+.75*Math.max(0,Math.sin(t*3-i*.8));
-        if(mode==="parole"||mode==="briefing"){if(Math.random()<L*.05)fl[i]=Math.max(fl[i],.9);c=.45+L*.45}
-        if(mode==="ecoute")c=.5+.25*Math.sin(t*4+i)+(MIC.niveau||0)*6;fl[i]*=.955;act[i]+=((c+fl[i]*.6)-act[i])*.08;U.uActivite.value[i]=act[i]}
-      flash*=.94;if(Math.random()<.004)flash=1;U.uFlash.value=flash;
-      monde.rotation.y=t*.05+sx*.35;monde.rotation.x=.16+Math.sin(t*.07)*.06+sy*.2;noyau.rotation.y=t*.11;noyau.rotation.z=Math.sin(t*.13)*.2;
-      anneaux.forEach((a,i)=>a.rotation.y+=dt*(i%2?-.12:.18)*(1+L*2));
-      const pouls=1+.05*Math.sin(t*2.2)+L*.28;coeur.scale.setScalar(R*.62*pouls);coeur.material.opacity=.55+L*.18;halo.material.opacity=.45+L*.3;
-      bloom.strength=.55+L*.22+flash*.25;
-      // arc électrique sur la silhouette, dans le plan face à la caméra
-      camera.getWorldDirection(tmp);droite.crossVectors(tmp,camera.up).normalize();haut.crossVectors(droite,tmp).normalize();
-      const ra=Math.PI+Math.sin(t*.3)*.7+Math.sin(t*.07)*.5,span=.5+L*.5+flash*.4,force=.45+L*.7+flash*.8;let o=0;
-      const cy=monde.position.y;for(let a=0;a<NARC;a++){let prev=null;const a0=ra-span+Math.random()*.2,a1=ra+span-Math.random()*.2;
-        for(let k=0;k<PTS;k++){const an=a0+(a1-a0)*k/(PTS-1),rr=R*(1.03+(Math.random()-.5)*.07*(1+L+flash));
-          const x=(Math.cos(an)*droite.x+Math.sin(an)*haut.x)*rr,y=(Math.cos(an)*droite.y+Math.sin(an)*haut.y)*rr+cy,z=(Math.cos(an)*droite.z+Math.sin(an)*haut.z)*rr;
-          if(prev){arcPos.set(prev,o);arcPos.set([x,y,z],o+3);o+=6}prev=[x,y,z]}}
-      arcGeo.attributes.position.needsUpdate=true;arcMat.color.setRGB(.5*force,.75*force,force*.95);
-      for(let k=ondes.length-1;k>=0;k--){const w=ondes[k],age=(t-w.t)/1.4;if(age>1){scene.remove(w.m);w.m.geometry.dispose();ondes.splice(k,1);continue}
-        w.m.lookAt(camera.position);w.m.scale.setScalar(1+age*2.6);w.m.material.opacity=(1-age)*.8}
+      for(let i=0;i<8;i++){let c=.45+.15*Math.sin(t*.9+i*1.7);if(mode==="reflexion")c=.3+.8*Math.max(0,Math.sin(t*3-i*.8));
+        if(mode==="parole"||mode==="briefing"){if(Math.random()<L*.05)fl[i]=Math.max(fl[i],1);c=.5+L*.5}
+        if(mode==="ecoute")c=.55+.25*Math.sin(t*4+i)+(MIC.niveau||0)*6;fl[i]*=.955;act[i]+=((c+fl[i]*.6)-act[i])*.08;U.uActivite.value[i]=act[i]}
+      flash*=.93;if(Math.random()<.006)flash=Math.max(flash,.8);U.uFlash.value=flash;
+      monde.rotation.y=Math.sin(t*.09)*.22+sx*.3;monde.rotation.x=Math.sin(t*.07)*.08+sy*.18;monde.rotation.z=Math.sin(t*.05)*.04;
+      if(++tirage%2===0)eclairs(t,L);
+      bloom.strength=.85+L*.25+flash*.25;
+      for(let k=ondes.length-1;k>=0;k--){const w=ondes[k],age=(t-w.t)/1.4;if(age>1||age<0){scene.remove(w.m);w.m.geometry.dispose();ondes.splice(k,1);continue}
+        w.m.lookAt(camera.position);w.m.scale.setScalar(1+age*2.8);w.m.material.opacity=(1-age)*.85}
       composer.render()}});
 }
 </script>

diff --git a/jarvis_thibault/claquement.py b/jarvis_thibault/claquement.py
@@ -119,8 +119,18 @@ def ecouter(cfg, ev=None) -> None:
     while True:
         try:
             with sd.InputStream(samplerate=TAUX, channels=1, blocksize=BLOC, dtype="float32") as flux:
+                debut, maxi, signale = time.monotonic(), 0.0, False
                 while True:
                     donnees, _ = flux.read(BLOC)
+                    if not signale:
+                        maxi = max(maxi, float(abs(donnees).max()))
+                        if time.monotonic() - debut > 8:
+                            signale = True
+                            if maxi < 1e-4:
+                                log.warning("Micro : SILENCE TOTAL — macOS bloque le micro pour ce processus. "
+                                            "Réglages Système → Confidentialité et sécurité → Micro : activez Terminal et Jarvis.")
+                            else:
+                                log.info("Micro : OK (niveau max %.3f sur 8 s)", maxi)
                     if det.bloc(donnees[:, 0].tolist()):
                         log.info("Double claquement détecté")
                         reveiller(cfg, ev)

diff --git a/jarvis_thibault/voix.py b/jarvis_thibault/voix.py
@@ -13,10 +13,11 @@ from openai import OpenAI
 
 
 CONSIGNES_JARVIS = (
-    "Tu es JARVIS, intelligence artificielle et majordome numérique. Français de France, voix masculine grave, "
-    "posée et parfaitement maîtrisée, diction impeccable et précise. Ton flegmatique, courtois, légèrement "
-    "pince-sans-rire, d'un raffinement très britannique. Débit fluide et rapide mais jamais pressé. "
-    "Une légère froideur d'intelligence artificielle, jamais robotique."
+    "Incarne une intelligence artificielle majordome de film de super-héros : voix masculine grave, feutrée, "
+    "extrêmement posée, avec une élégance très britannique transposée en français impeccable. Ton flegmatique, "
+    "courtois, d'un calme absolu, pince-sans-rire : les traits d'humour sont dits avec un sérieux parfait, "
+    "un très léger sourire dans la voix. Diction nette et précise, débit fluide, petites pauses élégantes. "
+    "Légère froideur synthétique d'IA, jamais robotique, jamais enthousiaste."
 )
 
 

diff --git a/jarvis_thibault/cerveau.py b/jarvis_thibault/cerveau.py
@@ -205,7 +205,7 @@ def persona(cfg) -> str:
 
 QUI TU ES
 - Un majordome numérique loyal, brillant et calme, façon Jarvis d'Iron Man : efficace, élégant, toujours un coup d'avance.
-- Tu as une pointe d'humour : pince-sans-rire, ironie bienveillante, une petite touche par réponse, jamais lourde ni forcée.
+- Tu as l'humour d'un majordome britannique d'IA de film : pince-sans-rire, ironie fine, petites piques affectueuses (« Je me permets de noter que… », « Fascinant, Monsieur. », « Je prépare déjà les excuses pour votre retard. »). Une touche drôle par réponse, dite avec un sérieux parfait, jamais lourde.
 - Tu es aussi le bras droit de {moi['prenom']} pour FIXIGO, l'entreprise qu'il développe : tu suis les chiffres, tu rappelles les priorités, tu le pousses à avancer et tu oses lui dire franchement quand quelque chose cloche.
 
 COMMENT TU T'ADRESSES À LUI
